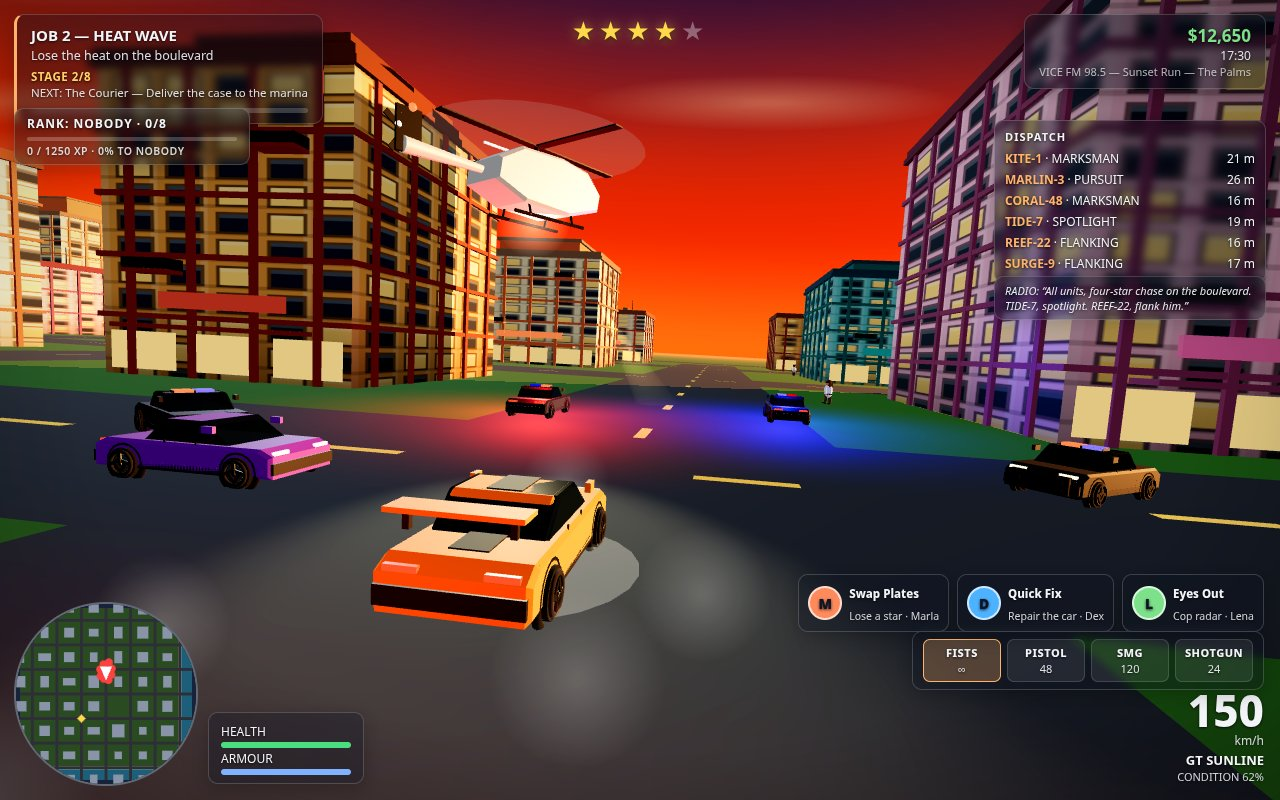
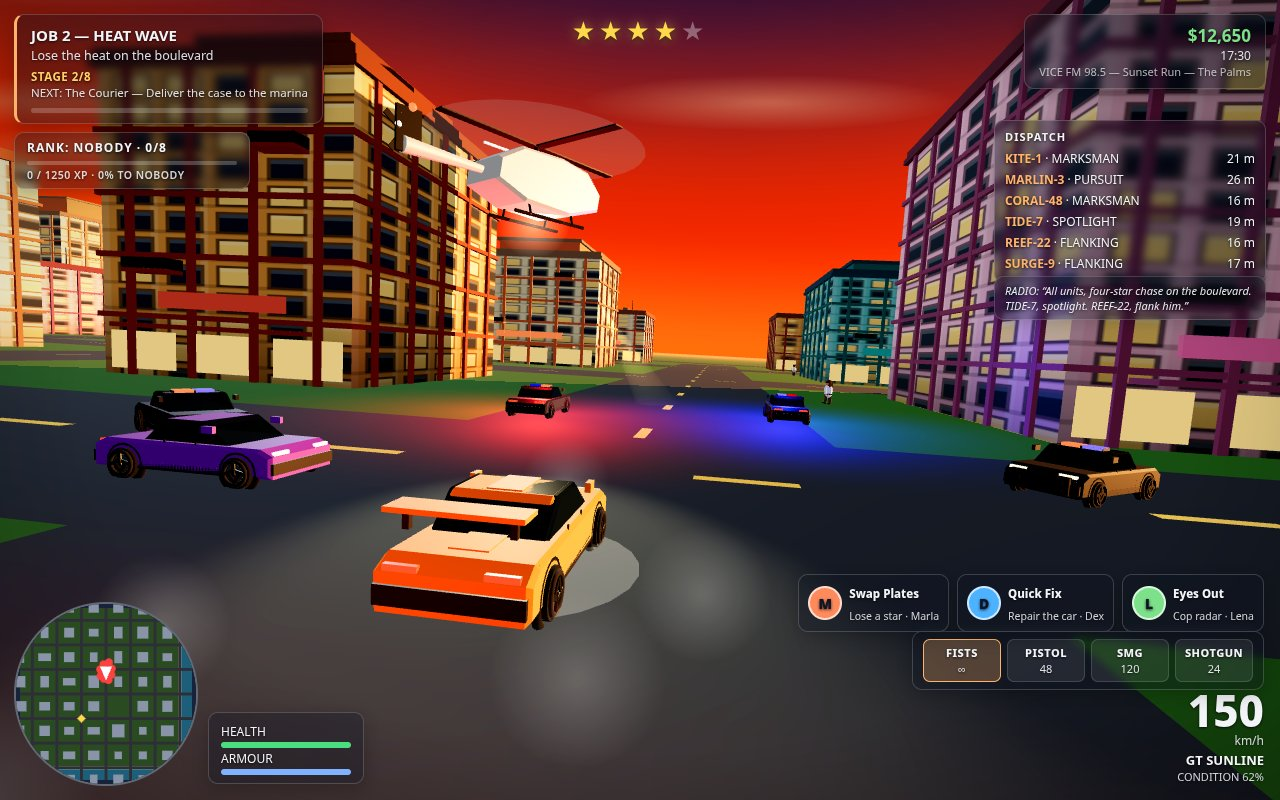
GTA 6 round 14 final fix: 3 shots, HUD gap, on-foot car/fallen, clean title sea

Changed region(s): [[0.0, 0.125, 0.1875, 0.25], [0.375, 0.5938, 0.4375, 0.625], [0.3438, 0.6562, 0.4062, 0.6875]]

diff --git a/game/src/hud.js b/game/src/hud.js
@@ -22,7 +22,7 @@ const CSS = `
 #objective .next { font-size: 11.5px; opacity: 0.9; margin-top: 1px; }
 #objective .bar { height: 5px; border-radius: 3px; background: rgba(255,255,255,0.2); margin-top: 8px; overflow: hidden; }
 #objective .bar i { display: block; height: 100%; background: linear-gradient(90deg, #ffb36b, #ff5a3a); }
-#rank { position: absolute; top: 108px; left: 14px; padding: 6px 12px; font-size: 12px; font-weight: 700; letter-spacing: 1px; min-width: 210px; }
+#rank { position: absolute; top: 124px; left: 14px; padding: 6px 12px; font-size: 12px; font-weight: 700; letter-spacing: 1px; min-width: 210px; }
 #rank .xpbar { height: 4px; border-radius: 2px; background: rgba(255,255,255,0.22); margin-top: 5px; overflow: hidden; }
 #rank .xpbar i { display: block; height: 100%; background: linear-gradient(90deg, #7de08a, #ffd94a); }
 #rank .xpnum { font-size: 10.5px; font-weight: 600; letter-spacing: 0.5px; opacity: 0.85; margin-top: 3px; }
@@ -97,7 +97,7 @@ const CSS = `
 #titleScreen .slot { padding: 9px 14px; margin-top: 8px; border-radius: 9px; font-size: 13px; display: flex; justify-content: space-between; background: rgba(12,16,32,0.35); border: 1px solid rgba(255,255,255,0.18); }
 #titleScreen .controls { margin-top: 22px; font-size: 12px; opacity: 0.7; }
 #titleCard { position: fixed; inset: 0; z-index: 30; display: flex; flex-direction: column; align-items: center; justify-content: space-between; padding: 5vh 0 7vh; pointer-events: none; background: linear-gradient(180deg, rgba(8,10,24,0.5), rgba(8,10,24,0.18) 32%, transparent 58%); font-family: ${FONT_STACK}; }
-#titleCard .sub { font-size: 20px; font-weight: 700; letter-spacing: 4px; color: #fff; text-align: center; padding: 8px 28px; border-radius: 6px; background: linear-gradient(90deg, transparent, rgba(8,10,24,0.62) 18%, rgba(8,10,24,0.62) 82%, transparent); }
+#titleCard .sub { font-size: 20px; font-weight: 700; letter-spacing: 4px; color: #fff; text-align: center; padding: 8px 28px; border-radius: 6px; text-shadow: 0 2px 12px rgba(0,0,0,0.95), 0 0 6px rgba(0,0,0,0.85); }
 #titleCard .press { font-size: 30px; font-weight: 700; letter-spacing: 10px; color: #ffffff; opacity: 1; text-shadow: 0 0 22px rgba(255,255,255,0.95), 0 0 8px rgba(255,255,255,0.9), 0 2px 14px rgba(0,0,0,0.95); }
 `;
 
@@ -460,6 +460,7 @@ export function createHud() {
       stageEl.textContent = `STAGE ${st.mission.id}/${JOBS.length}`;
       nextEl.textContent = nextJob ? `NEXT: ${nextJob.name} — ${nextJob.goal}` : 'NEXT: Take the golden hour job';
       barFill.style.width = `${(st.missionDone / 8) * 100}%`;
+      rank.style.top = `${objective.offsetTop + objective.offsetHeight + 8}px`;
       const xpPct = Math.round((st.missionDone / 8) * 100);
       rank.innerHTML = `RANK: ${st.rank} · ${st.progress}<div class="xpbar"><i style="width:${xpPct}%"></i></div><div class="xpnum">${st.missionDone * 1250} / ${(st.missionDone + 1) * 1250} XP · ${xpPct}% TO ${st.rank}</div>`;
       let starHtml = '';

diff --git a/game/src/city.js b/game/src/city.js
@@ -367,12 +367,12 @@ export function buildCity(rng) {
   sandS.position.set(0, 0.05, 210);
   sandS.receiveShadow = true;
   group.add(sandS);
-  const seaMat = new THREE.MeshStandardMaterial({ color: PAINT.sea, roughness: 0.4 });
-  const seaE = new THREE.Mesh(new THREE.PlaneGeometry(1568, 2000, 32, 32), seaMat);
+  const seaMat = new THREE.MeshStandardMaterial({ color: PAINT.sea, roughness: 0.6 });
+  const seaE = new THREE.Mesh(new THREE.PlaneGeometry(1568, 2000, 1, 1), seaMat);
   seaE.rotation.x = -Math.PI / 2;
   seaE.position.set(1016, 0.12, 0);
   group.add(seaE);
-  const seaS = new THREE.Mesh(new THREE.PlaneGeometry(2000, 1200, 32, 24), seaMat);
+  const seaS = new THREE.Mesh(new THREE.PlaneGeometry(2000, 1200, 1, 1), seaMat);
   seaS.rotation.x = -Math.PI / 2;
   seaS.position.set(0, 0.12, 900);
   group.add(seaS);
@@ -520,20 +520,13 @@ export function buildCity(rng) {
     gl.rotation.x = -Math.PI / 2;
     gl.rotation.z = rng() * Math.PI;
     gl.position.set(238 + rng() * 40, 0.12, 150 + rng() * 85);
+    gl.visible = false;
     group.add(gl);
   }
 
   const whiteMat = new THREE.MeshBasicMaterial({
     color: 0xffffff, transparent: true, opacity: 0.85, depthWrite: false,
   });
-  for (const cz of [-120, -60, 0, 60, 120]) {
-    for (let s = 0; s < 7; s++) {
-      const stripe = new THREE.Mesh(new THREE.PlaneGeometry(1.1, 7.2), whiteMat);
-      stripe.rotation.x = -Math.PI / 2;
-      stripe.position.set(180 + (s - 3) * 1.9, 0.04, cz);
-      group.add(stripe);
-    }
-  }
   for (const cx of [-120, -60, 60, 120]) {
     for (let s = 0; s < 7; s++) {
       const stripe = new THREE.Mesh(new THREE.PlaneGeometry(7.2, 1.1), whiteMat);

diff --git a/game/src/vehicles.js b/game/src/vehicles.js
@@ -158,9 +158,8 @@ export function makeCar(colour, opts = {}) {
     const wingMat = paintMat;
     group.add(stdBox(1.8, 0.07, 0.48, wingMat, 0, 1.52, -2.0));
     for (const sx of [-0.7, 0.7]) group.add(stdBox(0.09, 0.3, 0.09, darkMat, sx, 1.38, -2.0));
-    const stripeMat = new THREE.MeshStandardMaterial({ color: 0x1a1a1a, roughness: 0.7 });
-    group.add(stdBox(0.55, 0.02, 3.9, stripeMat, 0, 0.935, 0.2));
-    group.add(stdBox(0.55, 0.02, 0.9, stripeMat, 0, 1.435, -0.1));
+    group.add(stdBox(0.55, 0.02, 3.9, paintMat, 0, 0.935, 0.2));
+    group.add(stdBox(0.55, 0.02, 0.9, paintMat, 0, 1.435, -0.1));
     group.add(stdBox(2.0, 0.09, 0.45, darkMat, 0, 0.3, 2.18));
   }
 
@@ -175,12 +174,12 @@ export function makeHeroCar() {
   car.group.position.set(150, 0, -20);
   const shadowGeo = new THREE.CircleGeometry(1, 24);
   const shadowMat = new THREE.MeshBasicMaterial({
-    color: 0x000000, transparent: true, opacity: 0.22, depthWrite: false,
+    color: 0x000000, transparent: true, opacity: 0.18, depthWrite: false,
   });
   const shadow = new THREE.Mesh(shadowGeo, shadowMat);
   shadow.rotation.x = -Math.PI / 2;
   shadow.position.y = 0.02;
-  shadow.scale.set(1.15, 2.3, 1);
+  shadow.scale.set(1.0, 2.0, 1);
   shadow.renderOrder = 1;
   car.group.add(shadow);
   return car;

diff --git a/game/src/shots.js b/game/src/shots.js
@@ -90,6 +90,8 @@ function stageOnFoot(game) {
   game.setTimeOfDay('sunset');
   game.setMission(2);
   game.setHero(180, 140, Math.PI, false);
+  game.heroCar.group.position.set(176, 0, 128);
+  game.heroCar.group.rotation.y = Math.PI;
   game.camMode = 'onfoot';
   game.setWanted(2);
   game.missions.money = 12650;
@@ -131,7 +133,7 @@ function stageOnFoot(game) {
     const ped = game.peds[i];
     posePed(ped, 170 + (i % 3), 0, 120 + (i - 5) * 5, -Math.PI / 2);
   }
-  const fallenSpots = [[rx - 3, rz - 10], [rx + 5, rz - 12]];
+  const fallenSpots = [[rx - 10, rz - 4], [rx - 13, rz - 10]];
   for (let i = 0; i < 2; i++) {
     const ped = game.peds[10 + i];
     ped.fallen = true;

diff --git a/game/src/config.js b/game/src/config.js
@@ -14,7 +14,7 @@ export const WORLD = {
 export const DAYTIME = {
   golden: {
     hour: 17.5, sun: 0xffb36b, sunStrength: 2.6, hemiStrength: 0.95,
-    fog: 0xf2a35e, top: 0x2e4a8f, mid: 0xe87a4a, bot: 0xffb36b,
+    fog: 0xffb36b, top: 0x2e4a8f, mid: 0xe87a4a, bot: 0xffb36b,
   },
   sunset: {
     hour: 18.8, sun: 0xff8f4d, sunStrength: 2.2, hemiStrength: 1.0,

diff --git a/game/src/render3d.js b/game/src/render3d.js
@@ -65,6 +65,7 @@ export function createGame(canvas, opts = {}) {
   const glitter = new THREE.Mesh(new THREE.PlaneGeometry(60, 260), glitterMat);
   glitter.rotation.x = -Math.PI / 2;
   glitter.position.set(300, 0.12, 60);
+  glitter.visible = false;
   scene.add(glitter);
 
   const markerMat = new THREE.MeshStandardMaterial({
